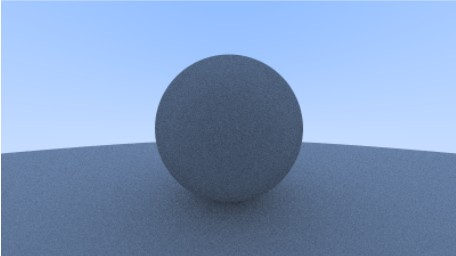
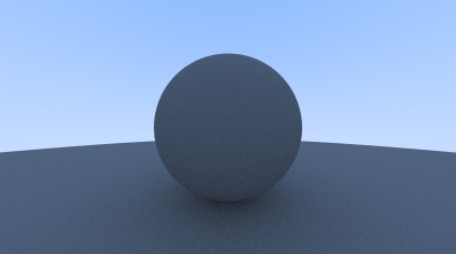
Add lambertian and normal reflection

diff --git a/RayTracer/Camera.cs b/RayTracer/Camera.cs
@@ -25,7 +25,7 @@ namespace RayTracer
         private Direction Dv;
         private int[,,] bitmap;
         private int _colorDepth = 3;
-        private int _maxBounces = 10;
+        private int _maxBounces = 30;
         private int _samplesPerPixel = 200;
         public double AspectRatio = 1.0;
         public int ImageWidth = 456;
@@ -96,12 +96,13 @@ namespace RayTracer
 
             HitInfo hitInfo = new HitInfo();
 
-            if (world.hit(ray, new Interval(0, MathHelper.Infinity), ref hitInfo))
+            if (world.hit(ray, new Interval(0.001, MathHelper.Infinity), ref hitInfo))
             {
                 Direction normal = hitInfo.Normal;
-                Direction direction = Vec3Util.SampleUnitHemisphere(hitInfo.Normal);
+                Displacement rnd = Vec3Util.UniformUnitSphere();
+                Direction direction = normal;
                 //Keeps bouncing until it hits nothing. Loses 10% energy each bounce i.e getting darker
-                return 0.75 * RayColour(new Ray(hitInfo.IntersectionPoint, direction), bouncesRemaining - 1, world);
+                return 0.9 * RayColour(new Ray(hitInfo.IntersectionPoint, direction), bouncesRemaining - 1, world);
             }
 
             Vec3 unitDirection = ray.Direction.UnitVector;

diff --git a/RayTracer/Vec3.cs b/RayTracer/Vec3.cs
@@ -83,7 +83,7 @@ namespace RayTracer
             Interval interval = new Interval(-1, 1);
             return RandomVec3(interval);
         }
-        public static Vec3 SampleUnitSphere()
+        public static Vec3 UniformUnitSphere()
         {
             while (true)
             {
@@ -94,9 +94,9 @@ namespace RayTracer
             }
 
         }
-        public static Vec3 SampleUnitHemisphere(Vec3 normal)
+        public static Vec3 UniformUnitHemisphere(Vec3 normal)
         {
-            Vec3 result = SampleUnitSphere();
+            Vec3 result = UniformUnitSphere();
             if (Dot(normal, result) > 0.0)
                 return result;
             return -result;
